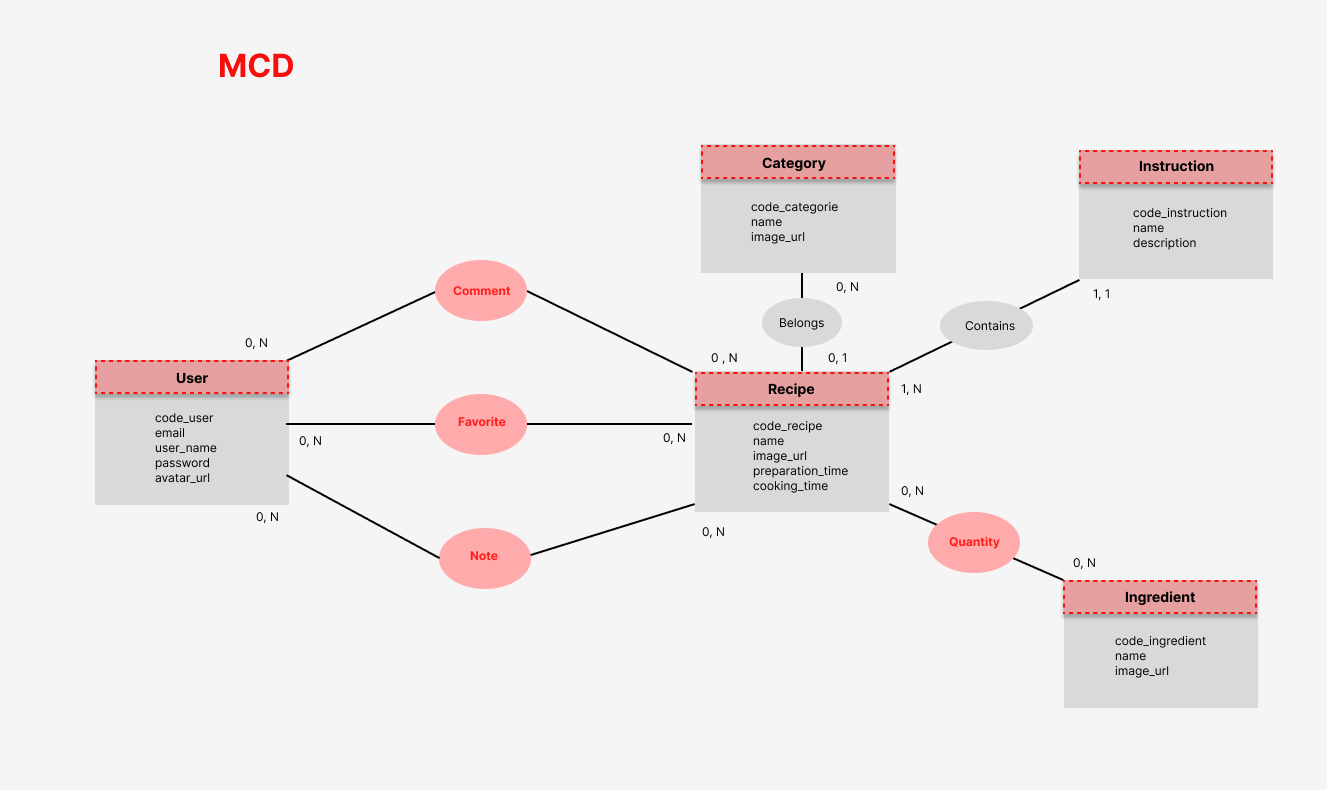
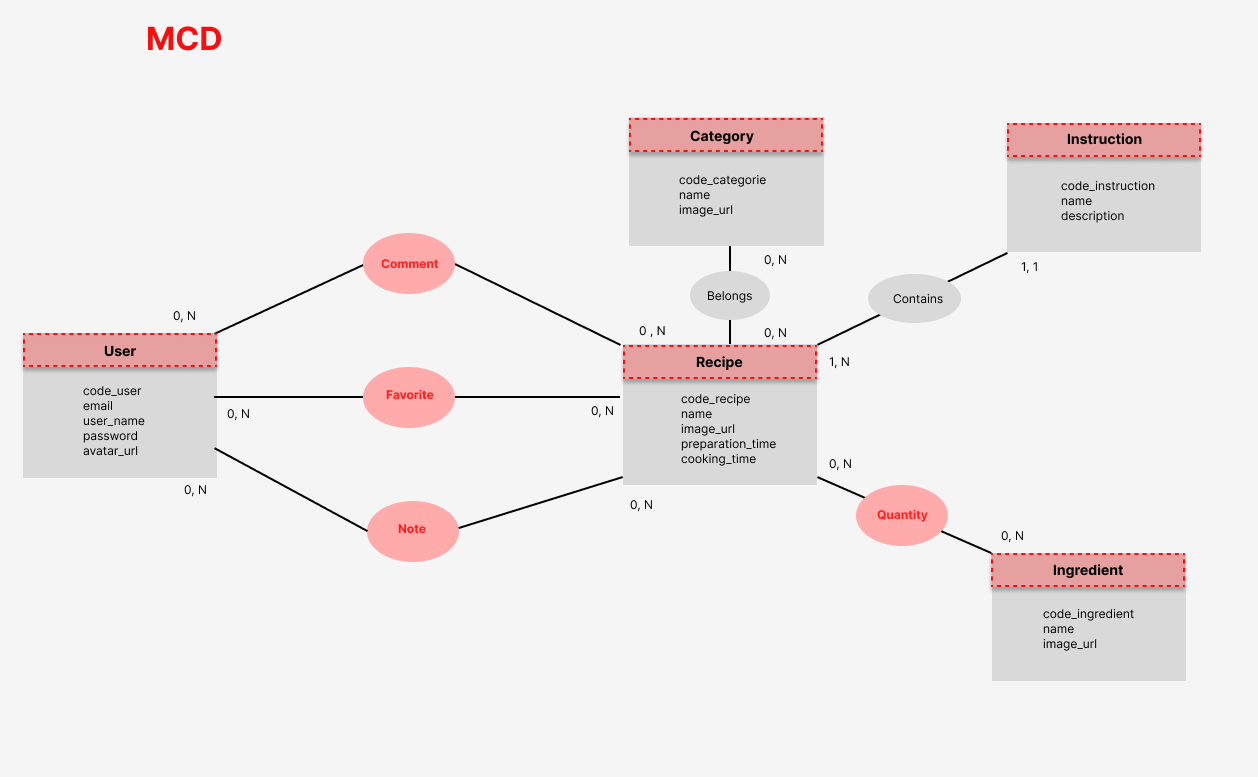
change on category to have multiple catgories for a recipe, created script create_tables

diff --git a/Docs/data dictionary.md b/Docs/data dictionary.md
@@ -9,7 +9,6 @@
 | image_url| text | 200|  NOT NULL| image de la recette|
 | preparation_time| text |25 |NOT NULL| temps de préparation|
 | cooking_time| text | 25 | - | temps de cuisson|
-| category_id | Integer | - | - | catégorie de la recette|
 
 ## B. Table Recipe_has_ingredient
 
@@ -17,7 +16,6 @@
 |------------|-----------|--------------|-----------|-------------|
 |id|integer||GENERATED ALWAYS AS IDENTITY PRIMARY KEY, UNIQUE|Identifiant unique pour la table Player, générée automatiquement|
 |quantity | text | 25 | NOT NULL| quantité de l'ingrédient dans la recette|
-|image_url | text|200|-| image de l'ingrédient|
 |recipe_id |integer| -| NOT NULL | clé étrangère de la recette |
 |ingredient_id | integer| - | NOT NULL|clé étragère de l'ingrédient |
 
@@ -46,7 +44,15 @@
 | name | TEXT | 25| NOT NULL|nom de la categorie |
 | image_url | TEXT | 200| -| image de la categorie|
 
-## F. Table User
+## F. Table category_has_recipe
+
+| Field Name | Data type | Field Length | Constraint| Description |
+|------------|-----------|--------------|-----------|-------------|
+|id|integer||GENERATED ALWAYS AS IDENTITY PRIMARY KEY, UNIQUE|Identifiant unique pour la table Player, générée automatiquement|
+| category_id | integer|- | -| clé étrangère de la catégorie |
+| recipe_id | integer|- | -| clé étrangère de la recette |
+
+## G. Table User
 
 | Field Name | Data type | Field Length | Constraint| Description |
 |------------|-----------|--------------|-----------|-------------|
@@ -56,7 +62,7 @@
 | password |TEXT |-|NOT NULL | le mot de passe de l'utilisateur|
 | avatar_url |TEXT| 200|- | l'image de l'avatar de l'utilisateur|
 
-## G. Table Comment
+## H. Table Comment
 
 | Field Name | Data type | Field Length | Constraint| Description |
 |------------|-----------|--------------|-----------|-------------|
@@ -66,7 +72,7 @@
 | user_id |integer |-| NOT NULL| l'identifiant de l'utilsateur qui a posté le commentaire |
 | recipe_id |integer |- | NOT NULL| l'indentifiant de la recette sur laquelle est postée le commentaire|
 
-## H. Table Favorite
+## I. Table Favorite
 
 | Field Name | Data type | Field Length | Constraint| Description |
 |------------|-----------|--------------|-----------|-------------|
@@ -74,7 +80,7 @@
 | user_id | integer | -|NOT NULL | l'identifiant de l'utilisateur qui a la recette en favoris|
 | recipe_id | integer |- |NOT NULL | l'identifiant de la recette en favoris|
 
-## I. Table Note
+## J. Table Note
 
 | Field Name | Data type | Field Length | Constraint| Description |
 |------------|-----------|--------------|-----------|-------------|

diff --git a/Docs/Routes.md b/Docs/Routes.md
@@ -6,6 +6,7 @@
 |---|---|----|-----|------|
 |/recipes|Récupérer toutes les recettes|-|-|-|
 |/recipe/:id|Récupérer une recette par son id|Créer une recette|Modifier une recette|Supprimer une recette|
+|/recipe/:id/categories|Récupérer les catégories d'une recette|-|-|-|
 
 ## Ingredient
 
